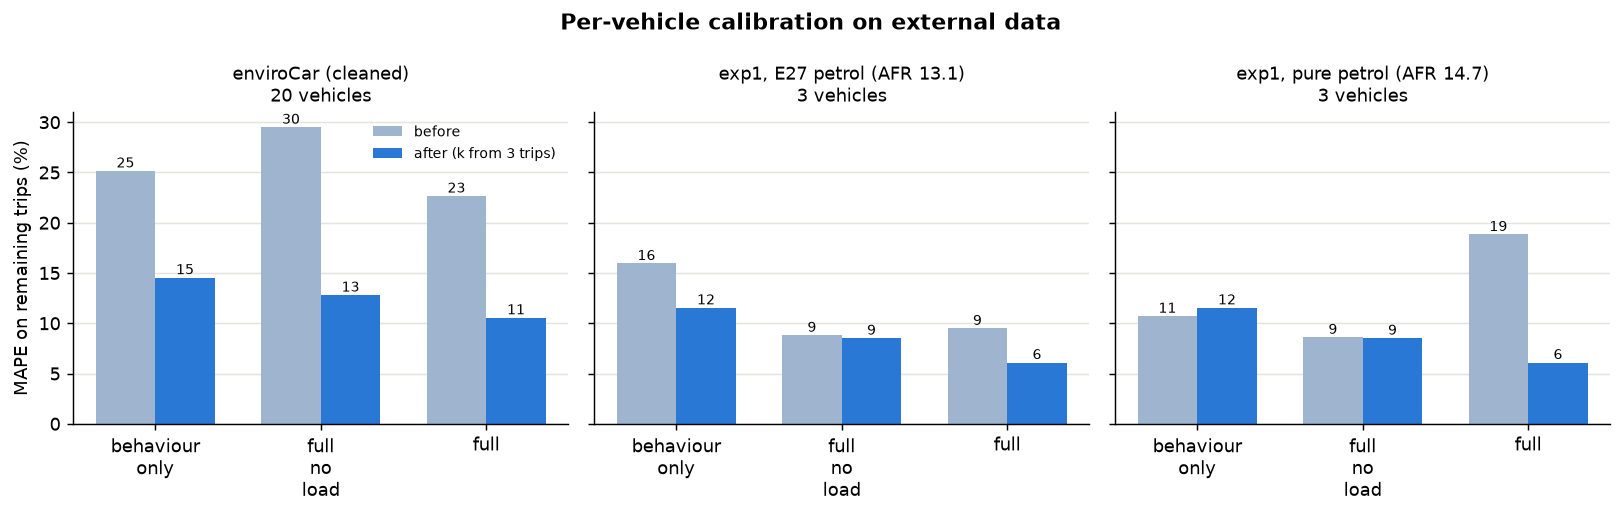
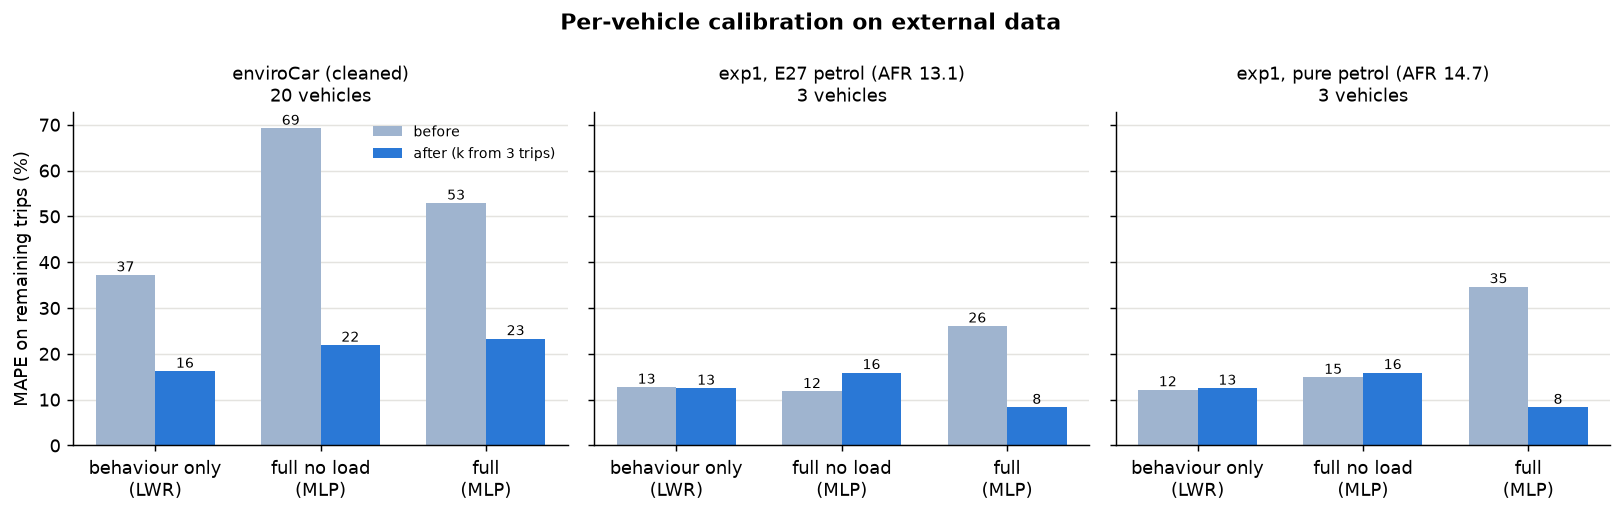
Plots and external validation: course vs reference models; refreshed shared results

diff --git a/09_generalisation.py b/09_generalisation.py
@@ -16,6 +16,10 @@ Generalisation experiments on the external data (run after 03_train.py --externa
 
 Output: Data/processed/results_trip/generalisation.txt, plots/generalisation_calibration_mape.png
 """
+import os
+for _v in ("OMP_NUM_THREADS", "OPENBLAS_NUM_THREADS", "MKL_NUM_THREADS"):
+    os.environ.setdefault(_v, "1")   # single-threaded BLAS: ~2x faster here for small matrices (MLP, LWR)
+
 import json
 
 import joblib
@@ -50,7 +54,13 @@ def scores(y, p):
 
 
 meta = json.loads((mf.MODELS / "meta_trip.json").read_text())
-bundles = {fs: joblib.load(meta["models"][meta[f"best_{fs}"]]["path"]) for fs in TIERS}
+# keys: "<tier>" = best COURSE model of that tier (what the app uses), "ref:<tier>" = best reference model
+KEYS = TIERS + [f"ref:{fs}" for fs in TIERS if f"best_reference_{fs}" in meta]
+TIER_OF = {k: k.split(":")[-1] for k in KEYS}
+GROUP_OF = {k: "reference" if k.startswith("ref:") else "course" for k in KEYS}
+MODEL_KEY = {k: meta[f"best_reference_{TIER_OF[k]}" if k.startswith("ref:") else f"best_{k}"] for k in KEYS}
+NAME = {k: MODEL_KEY[k].split("/")[1] for k in KEYS}
+bundles = {k: joblib.load(meta["models"][MODEL_KEY[k]]["path"]) for k in KEYS}
 
 
 def predict(df, fs):
@@ -64,15 +74,15 @@ n0_t, n0_v = len(ec), ec["vehid"].nunique()
 ec = ec[~ec["veh_label"].isin(EXCLUDE)]
 ec = ec[ec.groupby("vehid")[TARGET].transform("size") >= 3].reset_index(drop=True)
 ec["label"], ec["source"] = ec["veh_label"].str.strip(), "enviroCar"
-for fs in TIERS:
+for fs in KEYS:
     ec[f"pred_{fs}"] = predict(ec, fs)
 say("=== 1. Cleaned enviroCar test set ===")
 say(f"{n0_t} trips / {n0_v} vehicles -> {len(ec)} trips / {ec['vehid'].nunique()} vehicles "
     f"(dropped {EXCLUDE} and vehicles with < 3 trips)")
 rows = []
-for fs in TIERS:
+for fs in KEYS:
     s = scores(ec[TARGET], ec[f"pred_{fs}"])
-    rows.append({"tier": fs, "vehicles": ec["vehid"].nunique(), "trips": s["n"],
+    rows.append({"tier": TIER_OF[fs], "group": GROUP_OF[fs], "model": NAME[fs], "vehicles": ec["vehid"].nunique(), "trips": s["n"],
                  "rmse": s["rmse"], "mape": s["mape"], "bias": s["bias"]})
 say(pd.DataFrame(rows).round(3).to_string(index=False))
 
@@ -83,7 +93,7 @@ if exp1_path.exists():
     x1 = pd.read_parquet(exp1_path)
     for fuel, g in x1.groupby("fuel"):
         g = g.dropna(subset=[TARGET]).reset_index(drop=True)
-        for fs in TIERS:                      # re-predict with the current saved models
+        for fs in KEYS:                       # re-predict with the current saved models
             g[f"pred_{fs}"] = predict(g, fs)
         ext_sets[f"exp1, {fuel}"] = g
 else:
@@ -112,14 +122,15 @@ say("before / after are scored on the same remaining trips; vehicle error = medi
 cal_rows = []
 for name, df in ext_sets.items():
     for n_cal in (3, 1):
-        for fs in TIERS:
+        for fs in KEYS:
             t = calibrate(df, fs, n_cal)
             if t.empty:
                 continue
             sb, sa = scores(t[TARGET], t["p_before"]), scores(t[TARGET], t["p_after"])
             eb, ea = vehicle_err(t, "p_before"), vehicle_err(t, "p_after")
             cal_rows.append({
-                "data": name, "cal_trips": n_cal, "tier": fs, "vehicles": t["vehid"].nunique(),
+                "data": name, "cal_trips": n_cal, "tier": TIER_OF[fs], "group": GROUP_OF[fs], "model": NAME[fs],
+                "vehicles": t["vehid"].nunique(),
                 "test_trips": len(t),
                 "mape_before": sb["mape"], "mape_after": sa["mape"],
                 "rmse_before": sb["rmse"], "rmse_after": sa["rmse"],
@@ -154,13 +165,13 @@ say(f"test half vehicles: {sorted(ec_b['label'].unique())}")
 tests = {"enviroCar test half": ec_b}
 tests.update({k: v for k, v in ext_sets.items() if k.startswith("exp1")})
 ms_rows = []
-for fs in ["behaviour_only", "full_no_load"]:
+for fs in [k for k in KEYS if TIER_OF[k] in ("behaviour_only", "full_no_load")]:
     feats = bundles[fs]["features"]
     for train_name, train_df in [("VED only", ved_train), ("VED + enviroCar half", pd.concat([ved_train, ec_a]))]:
         m = clone(bundles[fs]["model"]).fit(mf.to_matrix(train_df, feats), train_df[TARGET].to_numpy())
         for test_name, td in tests.items():
             s = scores(td[TARGET], m.predict(mf.to_matrix(td, feats)))
-            ms_rows.append({"tier": fs, "training": train_name, "test": test_name,
+            ms_rows.append({"tier": TIER_OF[fs], "group": GROUP_OF[fs], "model": NAME[fs], "training": train_name, "test": test_name,
                             "vehicles": td["vehid"].nunique(), "trips": s["n"],
                             "rmse": s["rmse"], "mape": s["mape"], "bias": s["bias"]})
 ms = pd.DataFrame(ms_rows)
@@ -171,7 +182,7 @@ say("note: one 50/50 split with few vehicles; differences of a few MAPE points a
 (REP / "generalisation.txt").write_text("\n".join(lines), encoding="utf-8")
 
 # ---------------- plot: MAPE before / after calibration (3 calibration trips) ----------------
-c3 = cal[cal["cal_trips"] == 3]
+c3 = cal[(cal["cal_trips"] == 3) & (cal["group"] == "course")]   # plot: the app's course models
 if not c3.empty:
     datas = list(dict.fromkeys(c3["data"]))
     fig, axs = plt.subplots(1, len(datas), figsize=(4.2 * len(datas), 4), sharey=True, squeeze=False)
@@ -183,7 +194,7 @@ if not c3.empty:
         for i, (b, a_) in enumerate(zip(c["mape_before"], c["mape_after"])):
             ax.text(i - 0.18, b, f"{b:.0f}", ha="center", va="bottom", fontsize=8)
             ax.text(i + 0.18, a_, f"{a_:.0f}", ha="center", va="bottom", fontsize=8)
-        ax.set_xticks(x, [t.replace("_", "\n") for t in TIERS])
+        ax.set_xticks(x, [t.replace("_", " ") + "\n(" + str(c.loc[t, "model"]) + ")" for t in TIERS])
         ax.set_title(f"{name}\n{int(c['vehicles'].max())} vehicles", fontsize=10)
         ax.spines[["top", "right"]].set_visible(False)
         ax.grid(axis="y", color="#e4e3df")

diff --git a/08_validate_exp1.py b/08_validate_exp1.py
@@ -17,10 +17,14 @@ What this data allows (checked before writing the script):
   - No GPS -> no weather; temp_c stays missing. Timestamps are epoch ms (UTC); hour / weekday use
     America/Sao_Paulo time.
 
-Scores behaviour_only (main tier for non-VED logs), full_no_load and full with the saved best
-models, same trip filters as the VED build, and writes
+Scores behaviour_only (main tier for non-VED logs), full_no_load and full with the saved best course
+models (and the best reference models for comparison), same trip filters as the VED build, and writes
 Data/processed/results_trip/external_exp1.txt (+ per-vehicle CSV and predictions parquet).
 """
+import os
+for _v in ("OMP_NUM_THREADS", "OPENBLAS_NUM_THREADS", "MKL_NUM_THREADS"):
+    os.environ.setdefault(_v, "1")   # single-threaded BLAS: ~2x faster here for small matrices (MLP, LWR)
+
 import json
 
 import joblib
@@ -116,7 +120,10 @@ except FileNotFoundError:
 
 # ---------------- trips, scored under each fuel assumption ----------------
 meta = json.loads((mf.MODELS / "meta_trip.json").read_text())
-bundles = {fs: joblib.load(meta["models"][meta[f"best_{fs}"]]["path"]) for fs in TIERS if f"best_{fs}" in meta}
+# "<tier>" = best COURSE model of the tier (what the app uses); "ref:<tier>" = best reference model
+model_keys = {fs: meta[f"best_{fs}"] for fs in TIERS if f"best_{fs}" in meta}
+model_keys.update({f"ref:{fs}": meta[f"best_reference_{fs}"] for fs in TIERS if f"best_reference_{fs}" in meta})
+bundles = {k: joblib.load(meta["models"][v]["path"]) for k, v in model_keys.items()}
 mf.MAX_DT = MAX_DT_EXP1                               # read at call time by add_row_features
 base = d.drop(columns=["trip", "equiv_ratio"])
 results, per_vehicle, preds = [], None, []
@@ -149,12 +156,14 @@ for fuel, (afr, dens) in FUELS.items():
         p = b["model"].predict(mf.to_matrix(t, b["features"]))
         t[f"pred_{fs}"] = p
         missing = [c for c in b["features"] if c not in t or t[c].notna().mean() < 0.5]
-        res = {"fuel": fuel, "tier": fs, "n_vehicles": t["vehid"].nunique(), "n_trips": len(t),
+        res = {"fuel": fuel, "tier": fs.split(":")[-1],
+               "group": "reference" if fs.startswith("ref:") else "course",
+               "model": model_keys[fs].split("/")[1], "n_vehicles": t["vehid"].nunique(), "n_trips": len(t),
                "rmse": float(np.sqrt(mean_squared_error(y, p))), "mae": float(mean_absolute_error(y, p)),
                "r2": float(r2_score(y, p)) if len(t) > 1 else np.nan,
                "mape": float(np.mean(np.abs((y - p) / y)) * 100), "mean_bias": float(np.mean(p - y))}
         results.append(res)
-        say(f"  {fs:15s} n_vehicles={res['n_vehicles']} n_trips={res['n_trips']}  RMSE={res['rmse']:.3f} "
+        say(f"  {res['tier']:15s} {res['group']:9s} {res['model']:12s} n_vehicles={res['n_vehicles']} n_trips={res['n_trips']}  RMSE={res['rmse']:.3f} "
             f"MAE={res['mae']:.3f} R2={res['r2']:.3f} MAPE={res['mape']:.1f}% bias={res['mean_bias']:+.2f}  "
             f"missing features: {missing or 'none'}")
     t["err"] = t["pred_behaviour_only"] - t["l_per_100km"]

diff --git a/06_make_plots.py b/06_make_plots.py
@@ -147,16 +147,33 @@ cvp = mf.PROC / "results_trip" / "cv_folds.csv"
 if cvp.exists():
     cv = pd.read_csv(cvp)
     agg = cv.groupby(["model", "feature_set"])["rmse"].agg(["mean", "std"]).reset_index()
-    models = ["Ridge", "RandomForest", "LightGBM"]; sets = ["behaviour_only", "full"]
-    fig, ax = plt.subplots(figsize=(7, 4))
-    w = 0.36
+    course = [m for m in ["DecisionTree", "MLP", "kNN", "LWR"] if m in set(agg["model"])]
+    reference = [m for m in ["Ridge", "RandomForest", "LightGBM"] if m in set(agg["model"])]
+    models = course + reference
+    sets = [s for s in ["behaviour_only", "full_no_load", "full"] if s in set(agg["feature_set"])]
+    fig, ax = plt.subplots(figsize=(10, 4.5))
+    w = 0.8 / len(sets)
+    x = np.arange(len(models))
+    if reference:                                       # shade the reference block
+        ax.axvspan(len(course) - 0.5, len(models) - 0.5, color="#f1efe8", zorder=0)
+        ax.text(len(course) - 0.4, 0.98, "reference models (beyond the syllabus)", transform=ax.get_xaxis_transform(),
+                va="top", fontsize=9, color=INK2)
+        ax.text(-0.4, 0.98, "course models", transform=ax.get_xaxis_transform(), va="top", fontsize=9,
+                color=INK, fontweight="bold")
     for k, fs in enumerate(sets):
         r = agg[agg.feature_set == fs].set_index("model").reindex(models)
-        ax.bar(np.arange(3) + (k - 0.5) * w, r["mean"], w * 0.92, yerr=r["std"], capsize=3,
-               color=C[k], label=fs.replace("_", " "), error_kw={"ecolor": INK2, "lw": 1})
-    ax.set_xticks(range(3), models); ax.legend(frameon=False)
-    ax.set(title="10-fold grouped CV: RMSE by model", ylabel="RMSE (L/100 km), lower is better")
-    save(fig, "model_comparison", agg.round(3).to_string(index=False).replace("\n", "\n  "))
+        ax.bar(x + (k - (len(sets) - 1) / 2) * w, r["mean"], w * 0.92, yerr=r["std"], capsize=2,
+               color=C[k], label=fs.replace("_", " "), error_kw={"ecolor": INK2, "lw": 0.8}, zorder=2)
+    ax.set_xticks(x, models)
+    ax.set_ylim(0, agg["mean"].max() * 1.35)
+    ax.legend(frameon=False, loc="upper right", bbox_to_anchor=(1, 0.9))
+    ax.set(title="10-fold grouped CV: RMSE by model (course vs reference)", ylabel="RMSE (L/100 km), lower is better")
+    best_c = agg[agg.model.isin(course)].sort_values("mean").groupby("feature_set").head(1)
+    best_r = agg[agg.model.isin(reference)].sort_values("mean").groupby("feature_set").head(1)
+    save(fig, "model_comparison", "best course model per feature set: "
+         + ", ".join(f"{r.feature_set} {r.model} {r['mean']:.3f}" for _, r in best_c.iterrows())
+         + "; best reference: " + ", ".join(f"{r.feature_set} {r.model} {r['mean']:.3f}" for _, r in best_r.iterrows())
+         + "\n  " + agg.round(3).to_string(index=False).replace("\n", "\n  "))
 
 # 12 predicted vs actual + 13 residuals by speed band
 tp = mf.PROC / "results_trip" / "test_predictions.parquet"
